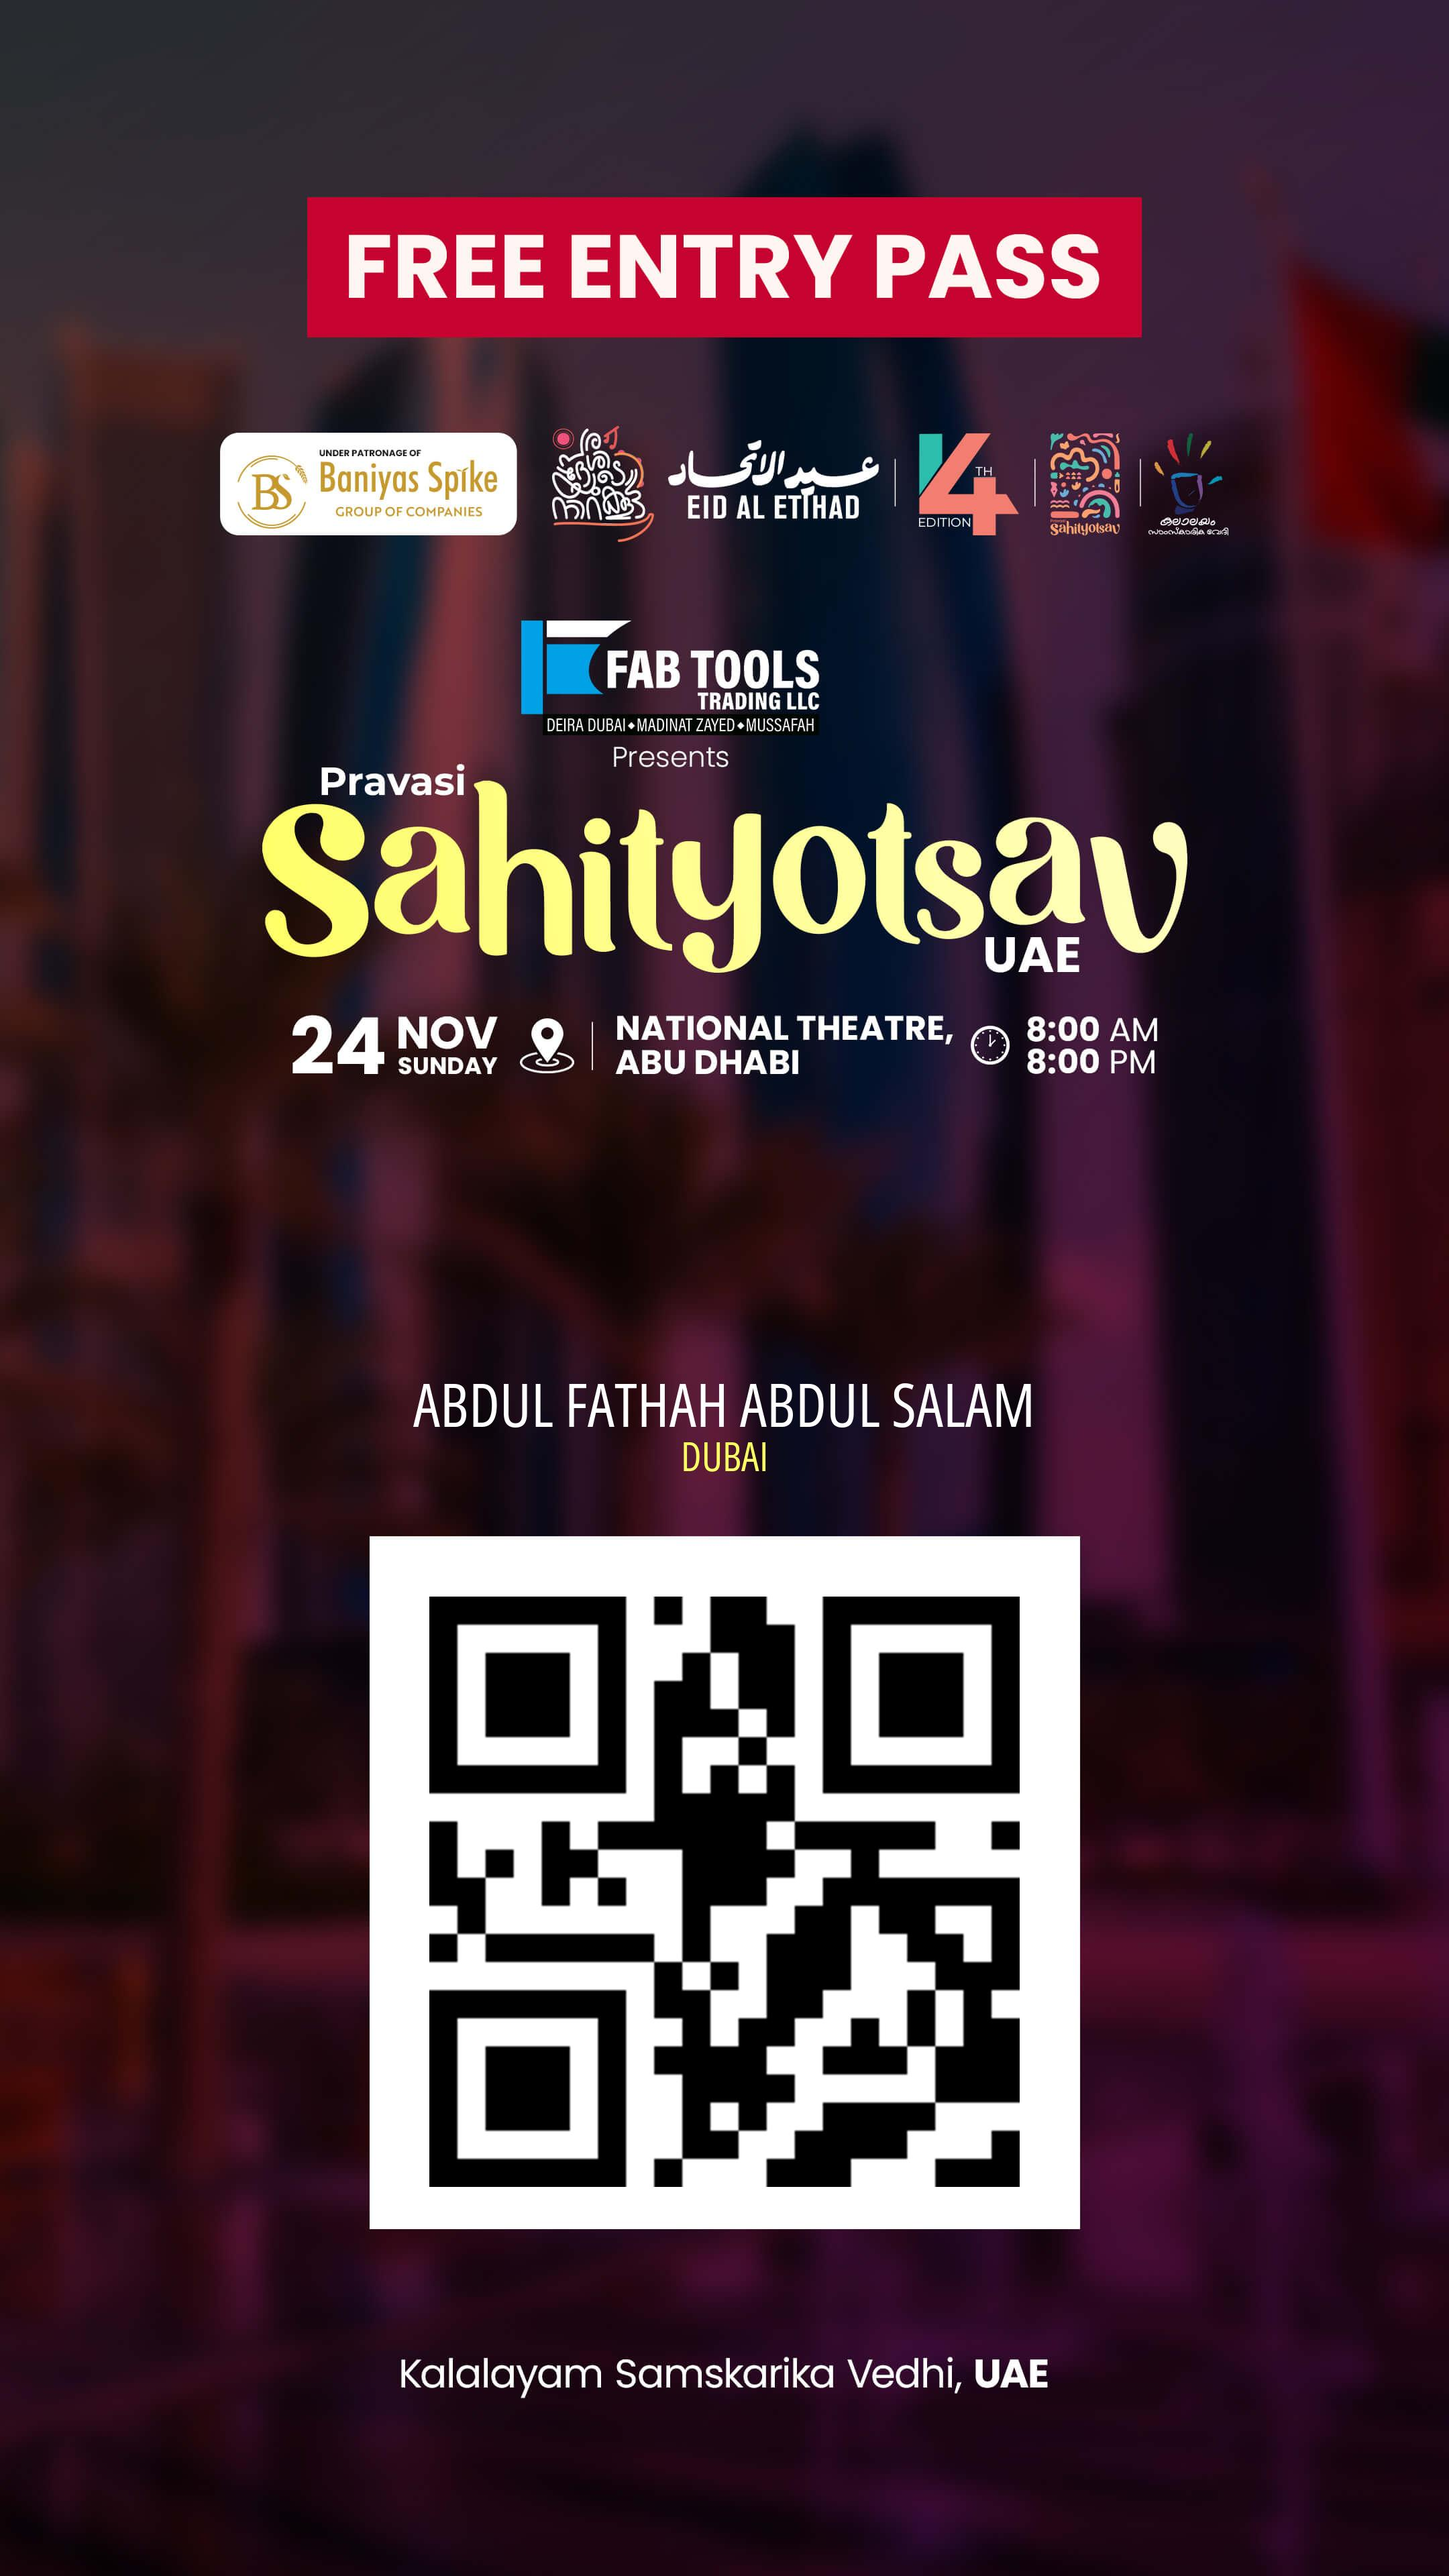
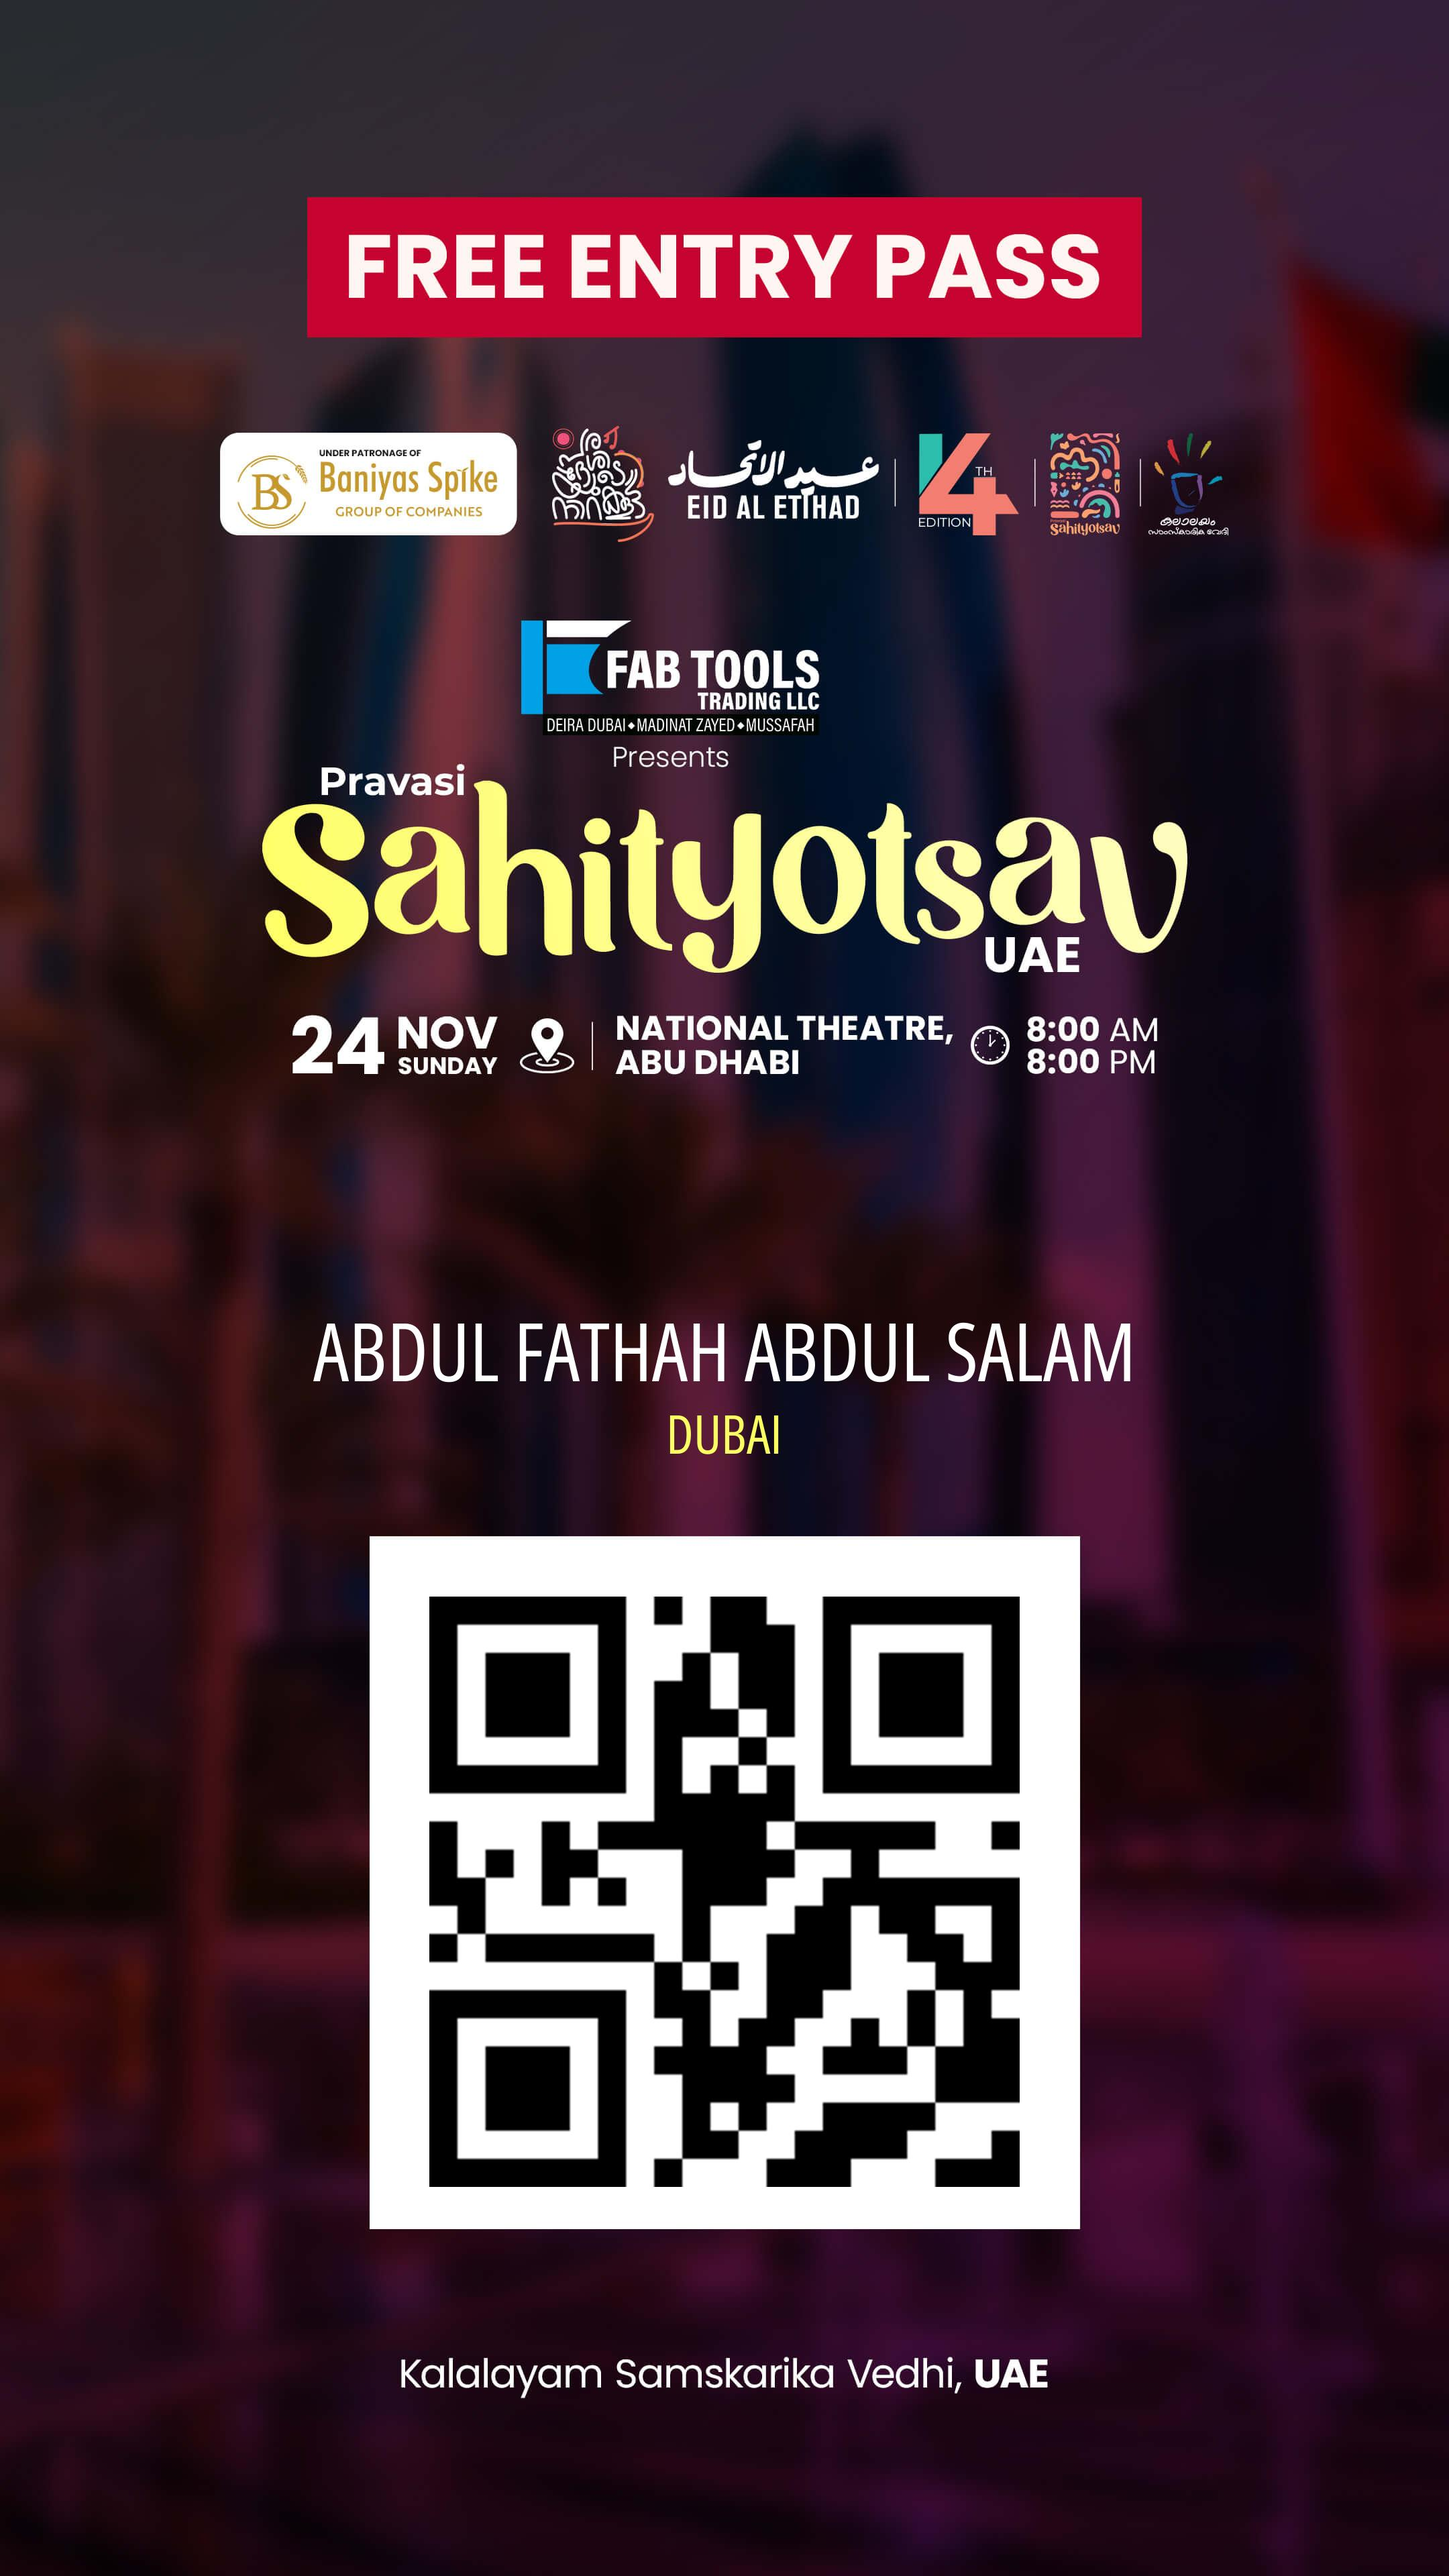
Text Size

Changed region(s): [[0.2171, 0.5, 0.7755, 0.5938]]

diff --git a/app.py b/app.py
@@ -40,8 +40,8 @@ def generate_pass():
 
         # Load font
         try:
-            font_large = ImageFont.truetype(FONT_PATH, 90)
-            font_small = ImageFont.truetype(FONT_PATH, 60)
+            font_large = ImageFont.truetype(FONT_PATH, 120)
+            font_small = ImageFont.truetype(FONT_PATH, 80)
         except IOError:
             return "Font file not found. Please add a font file to the folder.", 500
 
@@ -51,14 +51,14 @@ def generate_pass():
         name_height = 0
         for i, line in enumerate(name_lines):
             text_width, text_height = draw.textsize(line, font=font_large)
-            draw.text(((width - text_width) / 2, qr_y - 350 + (i * text_height)),
+            draw.text(((width - text_width) / 2, qr_y - 450 + (i * text_height)),
                       line, font=font_large, fill="white")
             name_height += text_height
 
         # Add emirate below name
         emirate = emirate.upper()
         text_width, text_height = draw.textsize(emirate, font=font_small)
-        draw.text(((width - text_width) / 2, qr_y - 350 + name_height),
+        draw.text(((width - text_width) / 2, qr_y - 430 + name_height),
                   emirate, font=font_small, fill="#FCFF62")
 
         # Save the updated image temporarily
